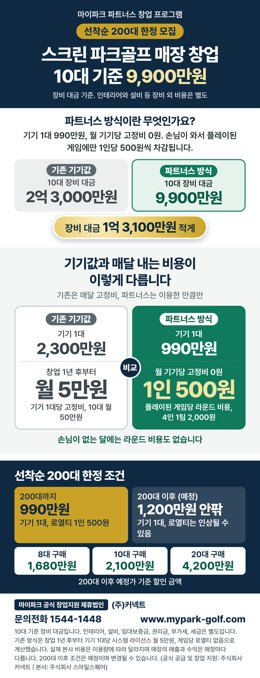
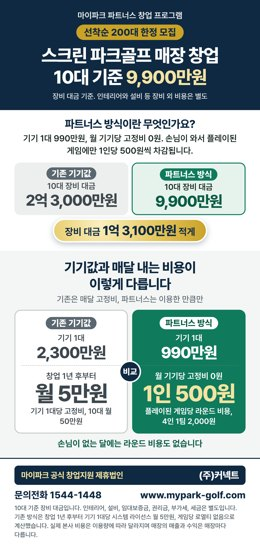
fix: remove limit and hook sections from onepager and add Connect footer with cache busting

diff --git a/index.html b/index.html
@@ -46,14 +46,14 @@
   </ul>
 
   <section class="one" aria-labelledby="one-t">
-    <a href="onepager.png" target="_blank" rel="noopener"><img src="thumbs/onepager.jpg" alt="고객에게 보낼 한 장 이미지 미리보기" width="260" height="660"></a>
+    <a href="onepager.png?v=20261014v3" target="_blank" rel="noopener"><img src="thumbs/onepager.jpg?v=20261014v3" alt="고객에게 보낼 한 장 이미지 미리보기" width="260" height="547"></a>
     <div>
       <h2 id="one-t">고객에게 보낼 한 장 이미지</h2>
       <p>기존에 상담한 분들께 보내거나 홈페이지에 올릴 이미지입니다. 휴대폰에서 읽히도록 글자를 크게 만들었습니다.</p>
-      <a class="btn" href="onepager.png" target="_blank" rel="noopener">이미지 크게 보기</a>
+      <a class="btn" href="onepager.png?v=20261014v3" target="_blank" rel="noopener">이미지 크게 보기</a>
     </div>
   </section>
 </main>
-<footer class="wrap">시안 확인용 페이지입니다. 선택하신 디자인으로 정리한 뒤 공개용 주소로 옮깁니다.</footer>
+<footer class="wrap">마이파크 공식 창업지원 제휴법인 (주)커넥트 | 시안 확인용 페이지입니다.</footer>
 </body>
 </html>

diff --git a/shared/content.js b/shared/content.js
@@ -167,7 +167,7 @@
       siteLabel: '홈페이지 창업문의'
     },
 
-    footer: '마이파크 스크린 파크골프 | 문의전화 1544-1448 | www.mypark-golf.com'
+    footer: '마이파크 공식 창업지원 제휴법인 (주)커넥트 | 문의전화 1544-1448 | www.mypark-golf.com'
   };
 
   // ── 토큰 치환과 바인딩 ─────────────────────────────────────
